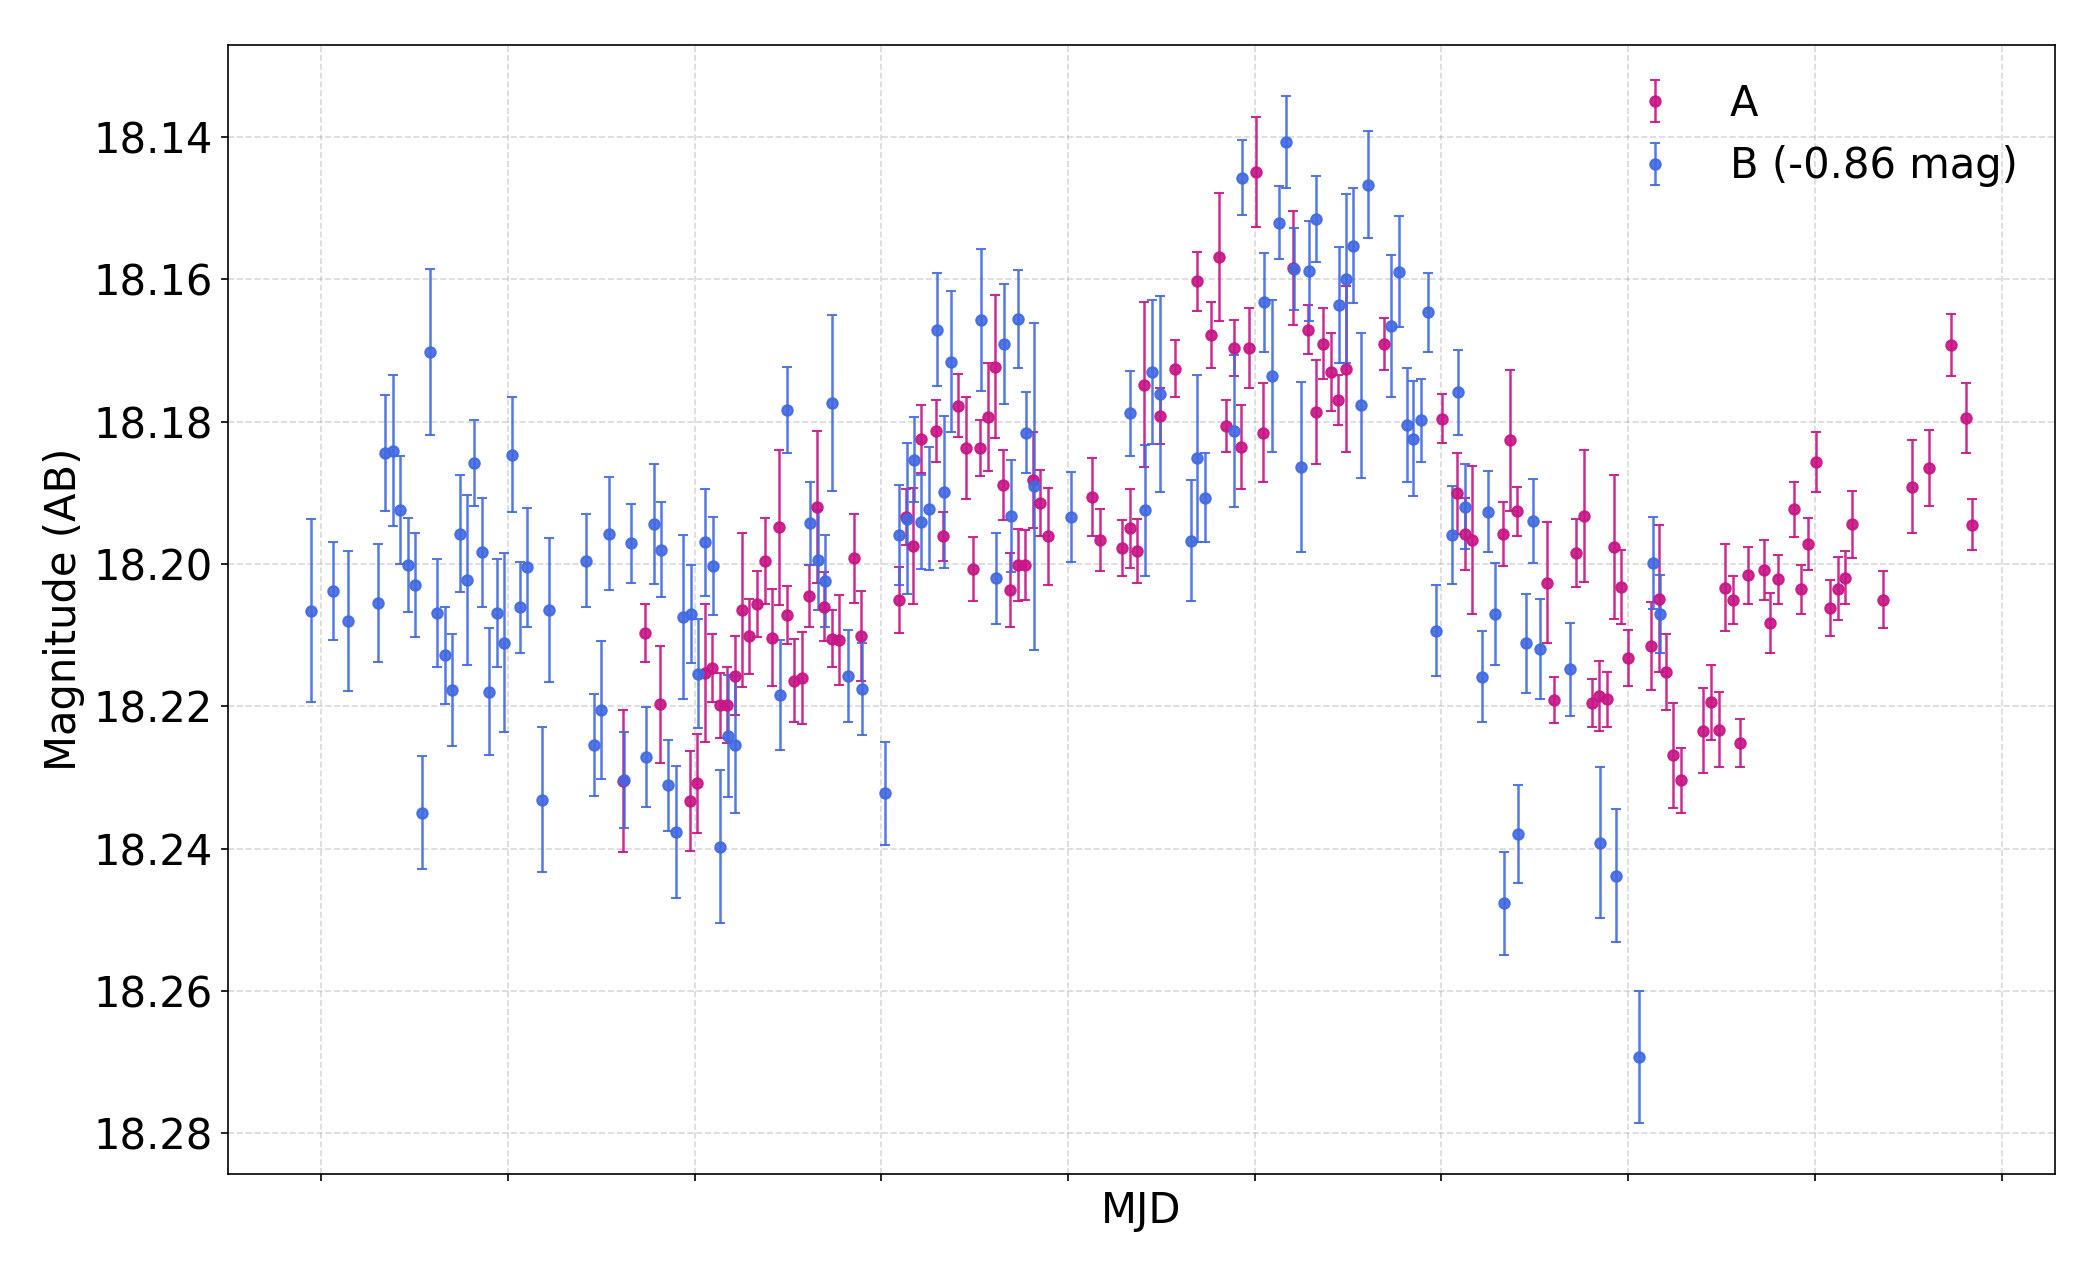
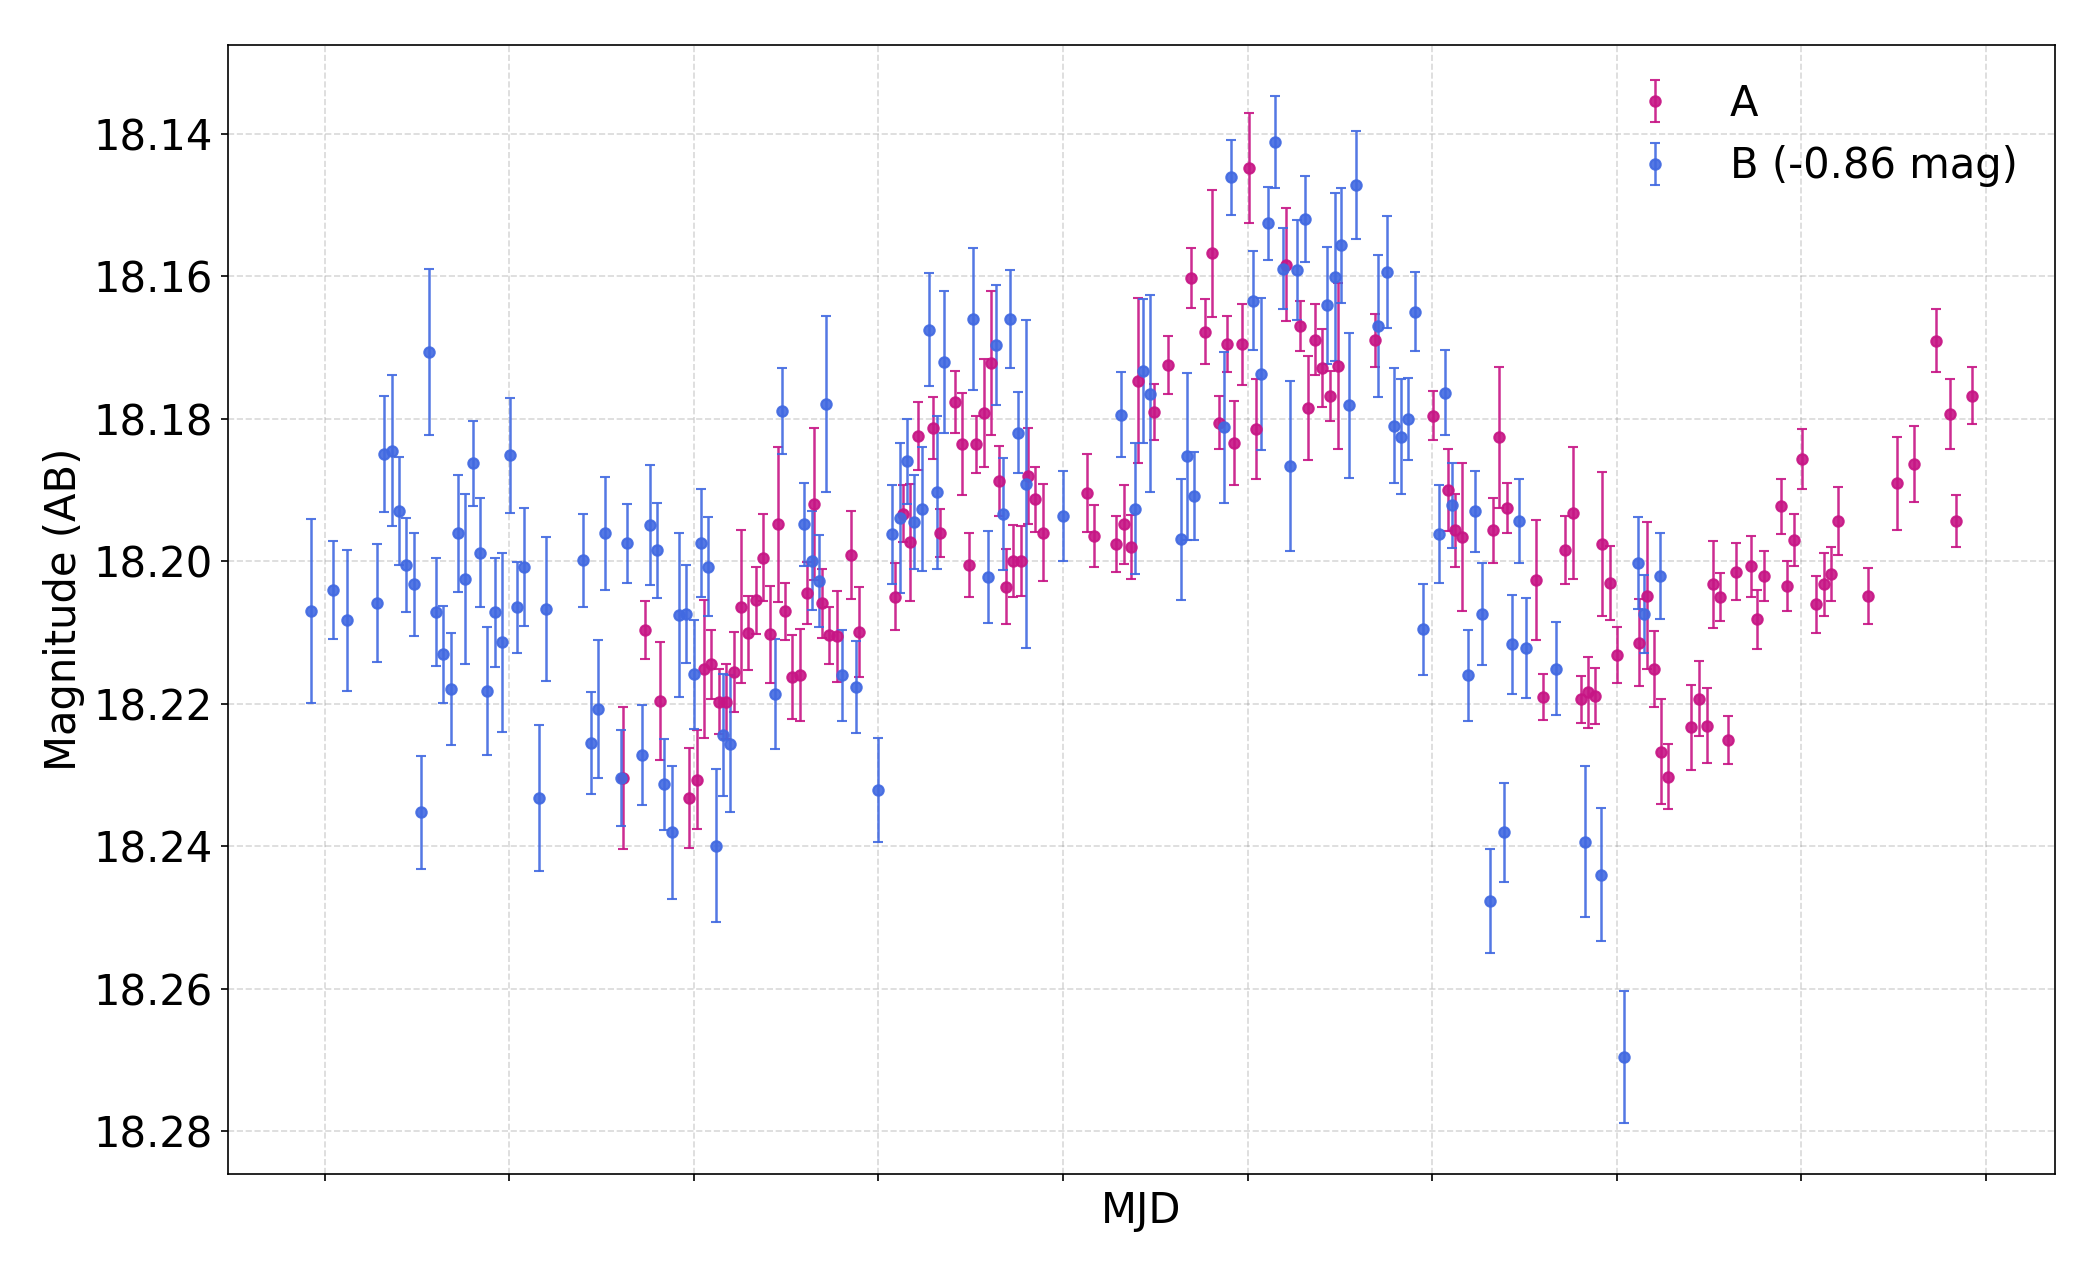
update 2026-11-04 17:16

diff --git a/J2329-1258_td.html b/J2329-1258_td.html
@@ -271,7 +271,7 @@
                                         <div class="delay-list">
                                                 <div class="delay-row">
                                                     <span class="pair">A<span>&ndash;</span>B</span>
-                                                    <span class="value">&minus;41.8<span class="err">&plusmn; 4.0</span><span class="unit">days</span></span>
+                                                    <span class="value">&minus;42.3<span class="err">&plusmn; 3.7</span><span class="unit">days</span></span>
                                                 </div>
                                         </div>
                                         <p class="td-note">Combined estimate (&tau; = 0.50) over all PyCS3 spline configurations.</p>

diff --git a/tools/build_td.py b/tools/build_td.py
@@ -205,7 +205,7 @@ T = {
                plots={'delays':'marginalisation_spline_sigma_0.50.png','curves':'multi_plot_combinations.png'})]),
  'J2329-1258': dict(badge='P4-P5 Monitoring', images='Two lensed images (A, B)',
     cutout=('J2329-1258_cutout.png', 'HST/F814W cutout with images A and B marked.'),
-    sols=[dict(delays=[('A-B','-41.8','4.0')],
+    sols=[dict(delays=[('A-B','-42.3','3.7')],
                plots={'delays':'marginalisation_spline_sigma_0.50.png','curves':'multi_plot.png'})]),
 }
 
